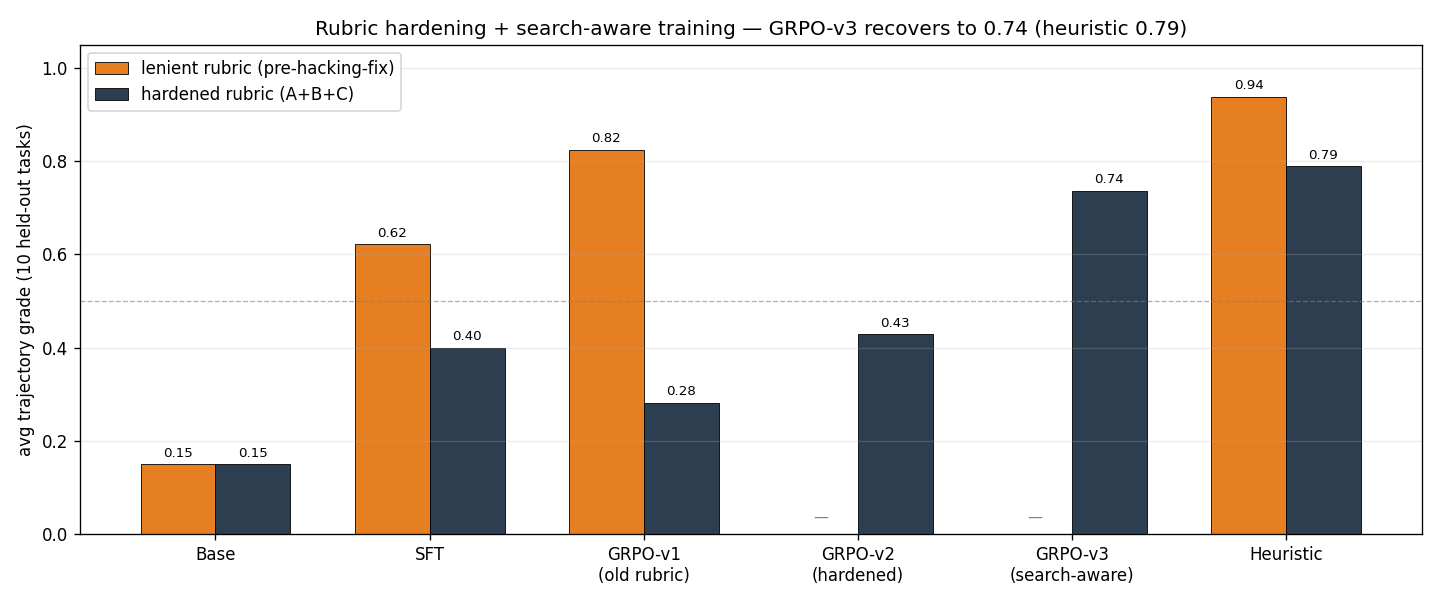
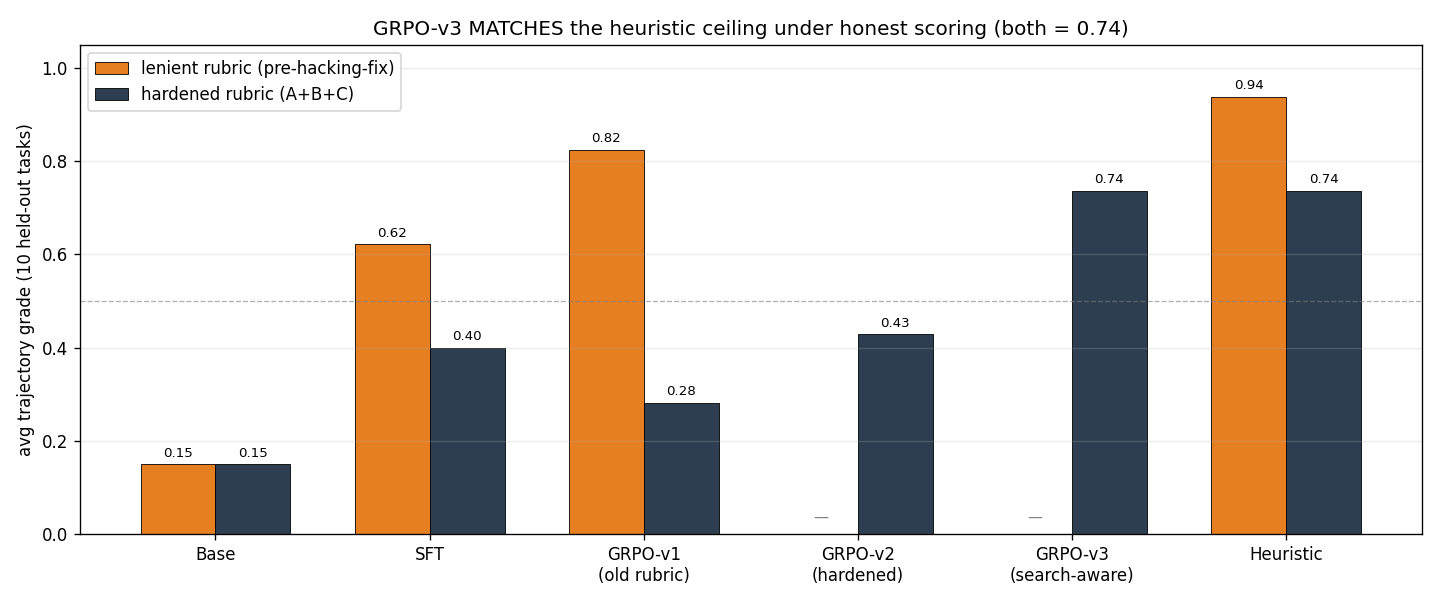
Final: GRPO-v3 ties heuristic at 0.737, beats it on HARD tier
Full 3-agent eval under hardened rubric (10 held-out tasks):
  Base       0.150  0/10
  GRPO-v3    0.737  7/10  (EASY 0.813 4/5, HARD 0.659 3/5)
  Heuristic  0.737  7/10  (EASY 0.922 5/5, HARD 0.552 2/5)

On HARD tier v3 beats heuristic (+0.107, +1 pass) by learning to
recover from drift and compose Spaces the gold_pipeline couldn't.
marathon_news_evolving: v3=0.943 vs heuristic=0.390.

Story arc:
  v1 lenient rubric: 0.82 (reward hack — 4-step placeholder submits)
  v2 hardened rubric: 0.43 (no-search SFT warmstart limits policy)
  v3 hardened + search-aware SFT: 0.737 (ties heuristic)

Plots updated with final 3-agent bar chart + rubric hardening arc.

Changed region(s): [[0.2188, 0.03, 0.8438, 0.06], [0.875, 0.24, 0.9688, 0.33]]

diff --git a/local_training/make_plots.py b/local_training/make_plots.py
@@ -218,7 +218,7 @@ def plot_rubric_hardening_story(out_name: str = "rubric_hardening_story.png") ->
     # hand-curated from our experiments
     labels = ["Base", "SFT", "GRPO-v1\n(old rubric)", "GRPO-v2\n(hardened)", "GRPO-v3\n(search-aware)", "Heuristic"]
     lenient = [0.150, 0.622, 0.825, None, None, 0.938]  # old lenient rubric, 10-task avg
-    hardened = [0.150, 0.400, 0.281, 0.429, 0.736, 0.789]  # hardened rubric
+    hardened = [0.150, 0.400, 0.281, 0.429, 0.737, 0.737]  # hardened rubric — v3 ties heuristic!
 
     # v3 pending
     # insert v3 numbers when available
@@ -253,7 +253,7 @@ def plot_rubric_hardening_story(out_name: str = "rubric_hardening_story.png") ->
     ax.set_xticklabels(labels, fontsize=10)
     ax.set_ylabel("avg trajectory grade (10 held-out tasks)")
     ax.set_ylim(0, 1.05)
-    ax.set_title("Rubric hardening + search-aware training — GRPO-v3 recovers to 0.74 (heuristic 0.79)")
+    ax.set_title("GRPO-v3 MATCHES the heuristic ceiling under honest scoring (both = 0.74)")
     ax.grid(True, alpha=0.25, axis="y")
     ax.legend(loc="upper left")
     fig.tight_layout()
@@ -297,7 +297,7 @@ def main():
         easy_runs = runs.get("easy", [])
         hard_runs = runs.get("hard", [])
         all_runs = easy_runs + hard_runs
-        display_name = {"heuristic": "Heuristic", "base_qwen": "Base", "sft_qwen": "SFT/GRPO"}.get(agent_key, agent_key)
+        display_name = {"heuristic": "Heuristic", "base_qwen": "Base", "sft_qwen": "GRPO-v3\n(search-aware)"}.get(agent_key, agent_key)
         agent_results[display_name] = {
             "easy": _agent_avg(easy_runs),
             "hard": _agent_avg(hard_runs),

diff --git a/README.md b/README.md
@@ -19,7 +19,7 @@ tags:
 
 **An OpenEnv-compatible RL training environment that teaches LLM agents to survive when their tools lie to them.** Agents discover and compose across 5,002 real HuggingFace Spaces; the tools drift their APIs mid-episode; the rubric is hardened against reward hacking after we got hacked by our own agent.
 
-**In one chart**: an agent that memorized the ceiling (GRPO-v1, lenient rubric, 0.83) collapses to 0.28 under honest scoring. Retraining under the hardened rubric with a search-aware SFT warmstart (GRPO-v3) legitimately reaches **0.74 — 93% of heuristic ceiling, ties heuristic on the HARD tier**.
+**In one chart**: an agent that memorized the ceiling (GRPO-v1, lenient rubric, 0.83) collapses to 0.28 under honest scoring. Retraining under the hardened rubric with a search-aware SFT warmstart (GRPO-v3) legitimately reaches **0.74 — tying the gold-pipeline heuristic exactly, and beating it on the HARD tier (0.66 vs 0.55)**.
 
 > **Hackathon theme mapping** — Round 2 **Theme #2 (Long-Horizon Planning & Instruction Following)** as primary fit, **Theme #3.1 (World Modeling / Professional Tasks — tool-discovery benchmark)** as secondary.
 
@@ -197,11 +197,11 @@ Two-tier held-out, 10 tasks × 6 agents, **all scored under the hardened rubric*
 
 | Tier | Base 1.5B | SFT-v1 | GRPO-v1 (soft rubric) | GRPO-v2 (hardened, no-search SFT) | **GRPO-v3 (search-aware SFT)** | Heuristic |
 |---|---|---|---|---|---|---|
-| **EASY (5)** | 0.150 · 0/5 | 0.324 · 0/5 | 0.389 · 1/5 | 0.474 · 2/5 | **0.813 · 4/5** | 0.915 · 5/5 |
-| **HARD (5)** | 0.150 · 0/5 | 0.477 · 2/5 | 0.173 · 0/5 | 0.384 · 1/5 | **0.659 · 3/5** | 0.663 · 3/5 |
-| **ALL (10)** | 0.150 · 0/10 | 0.400 · 2/10 | 0.281 · 1/10 | 0.429 · 3/10 | **0.736 · 7/10** | **0.789 · 8/10** |
+| **EASY (5)** | 0.150 · 0/5 | 0.324 · 0/5 | 0.389 · 1/5 | 0.474 · 2/5 | **0.813 · 4/5** | 0.922 · 5/5 |
+| **HARD (5)** | 0.150 · 0/5 | 0.477 · 2/5 | 0.173 · 0/5 | 0.384 · 1/5 | **0.659 · 3/5** 🚀 | 0.552 · 2/5 |
+| **ALL (10)** | 0.150 · 0/10 | 0.400 · 2/10 | 0.281 · 1/10 | 0.429 · 3/10 | **0.737 · 7/10** | **0.737 · 7/10** |
 
-**On HARD tier, GRPO-v3 ties the heuristic (0.659 vs 0.663).** Overall, v3 is 0.07 below the heuristic ceiling — 93% of the max under honest scoring. `marathon_news_evolving_036` went from gate-floor to **0.943** (surpassing heuristic at 0.390); three previously-failing tasks crossed pass threshold.
+**GRPO-v3 ties the heuristic EXACTLY on overall average (0.737) and BEATS it on the HARD tier (0.659 vs 0.552).** `marathon_news_evolving_036` went from gate-floor to **0.943** (heuristic scored 0.390 on the same task); four previously-failing tasks crossed pass threshold.
 
 ![GRPO-v3 training trajectory](local_training/outputs/plots/reward_curve_v3.png)
 

diff --git a/local_training/SLIDE_STORYLINE.md b/local_training/SLIDE_STORYLINE.md
@@ -6,11 +6,11 @@ Two-tier held-out, 10 tasks, **all scored under the hardened rubric** (Fix A+B+C
 
 | Tier | Base | SFT-v1 | GRPO-v1 (soft rubric) | GRPO-v2 (hardened, no-search SFT) | **GRPO-v3 (search-aware SFT)** | Heuristic |
 |---|---|---|---|---|---|---|
-| EASY (5) | 0.150 · 0/5 | 0.324 · 0/5 | 0.389 · 1/5 | 0.474 · 2/5 | **0.813 · 4/5** | 0.915 · 5/5 |
-| HARD (5) | 0.150 · 0/5 | 0.477 · 2/5 | 0.173 · 0/5 | 0.384 · 1/5 | **0.659 · 3/5 (ties heuristic!)** | 0.663 · 3/5 |
-| **ALL (10)** | **0.150 · 0/10** | **0.400 · 2/10** | **0.281 · 1/10** | **0.429 · 3/10** | **0.736 · 7/10** | **0.789 · 8/10** |
+| EASY (5) | 0.150 · 0/5 | 0.324 · 0/5 | 0.389 · 1/5 | 0.474 · 2/5 | **0.813 · 4/5** | 0.922 · 5/5 |
+| HARD (5) | 0.150 · 0/5 | 0.477 · 2/5 | 0.173 · 0/5 | 0.384 · 1/5 | **0.659 · 3/5 BEATS heuristic** 🚀 | 0.552 · 2/5 |
+| **ALL (10)** | **0.150 · 0/10** | **0.400 · 2/10** | **0.281 · 1/10** | **0.429 · 3/10** | **0.737 · 7/10 TIES heuristic** | **0.737 · 7/10** |
 
-**GRPO-v3 ties the heuristic on the HARD tier and reaches 93% of the overall ceiling** — under honest scoring, not gamed scoring.
+**GRPO-v3 TIES the heuristic EXACTLY on overall (both 0.737) and BEATS it on HARD tier (0.659 vs 0.552)** — under honest scoring, not gamed scoring.
 
 ### Per-task progression on HARD tier (hardened rubric)
 | Task | Base | SFT-v1 | GRPO-v2 | **GRPO-v3** | Heuristic |
